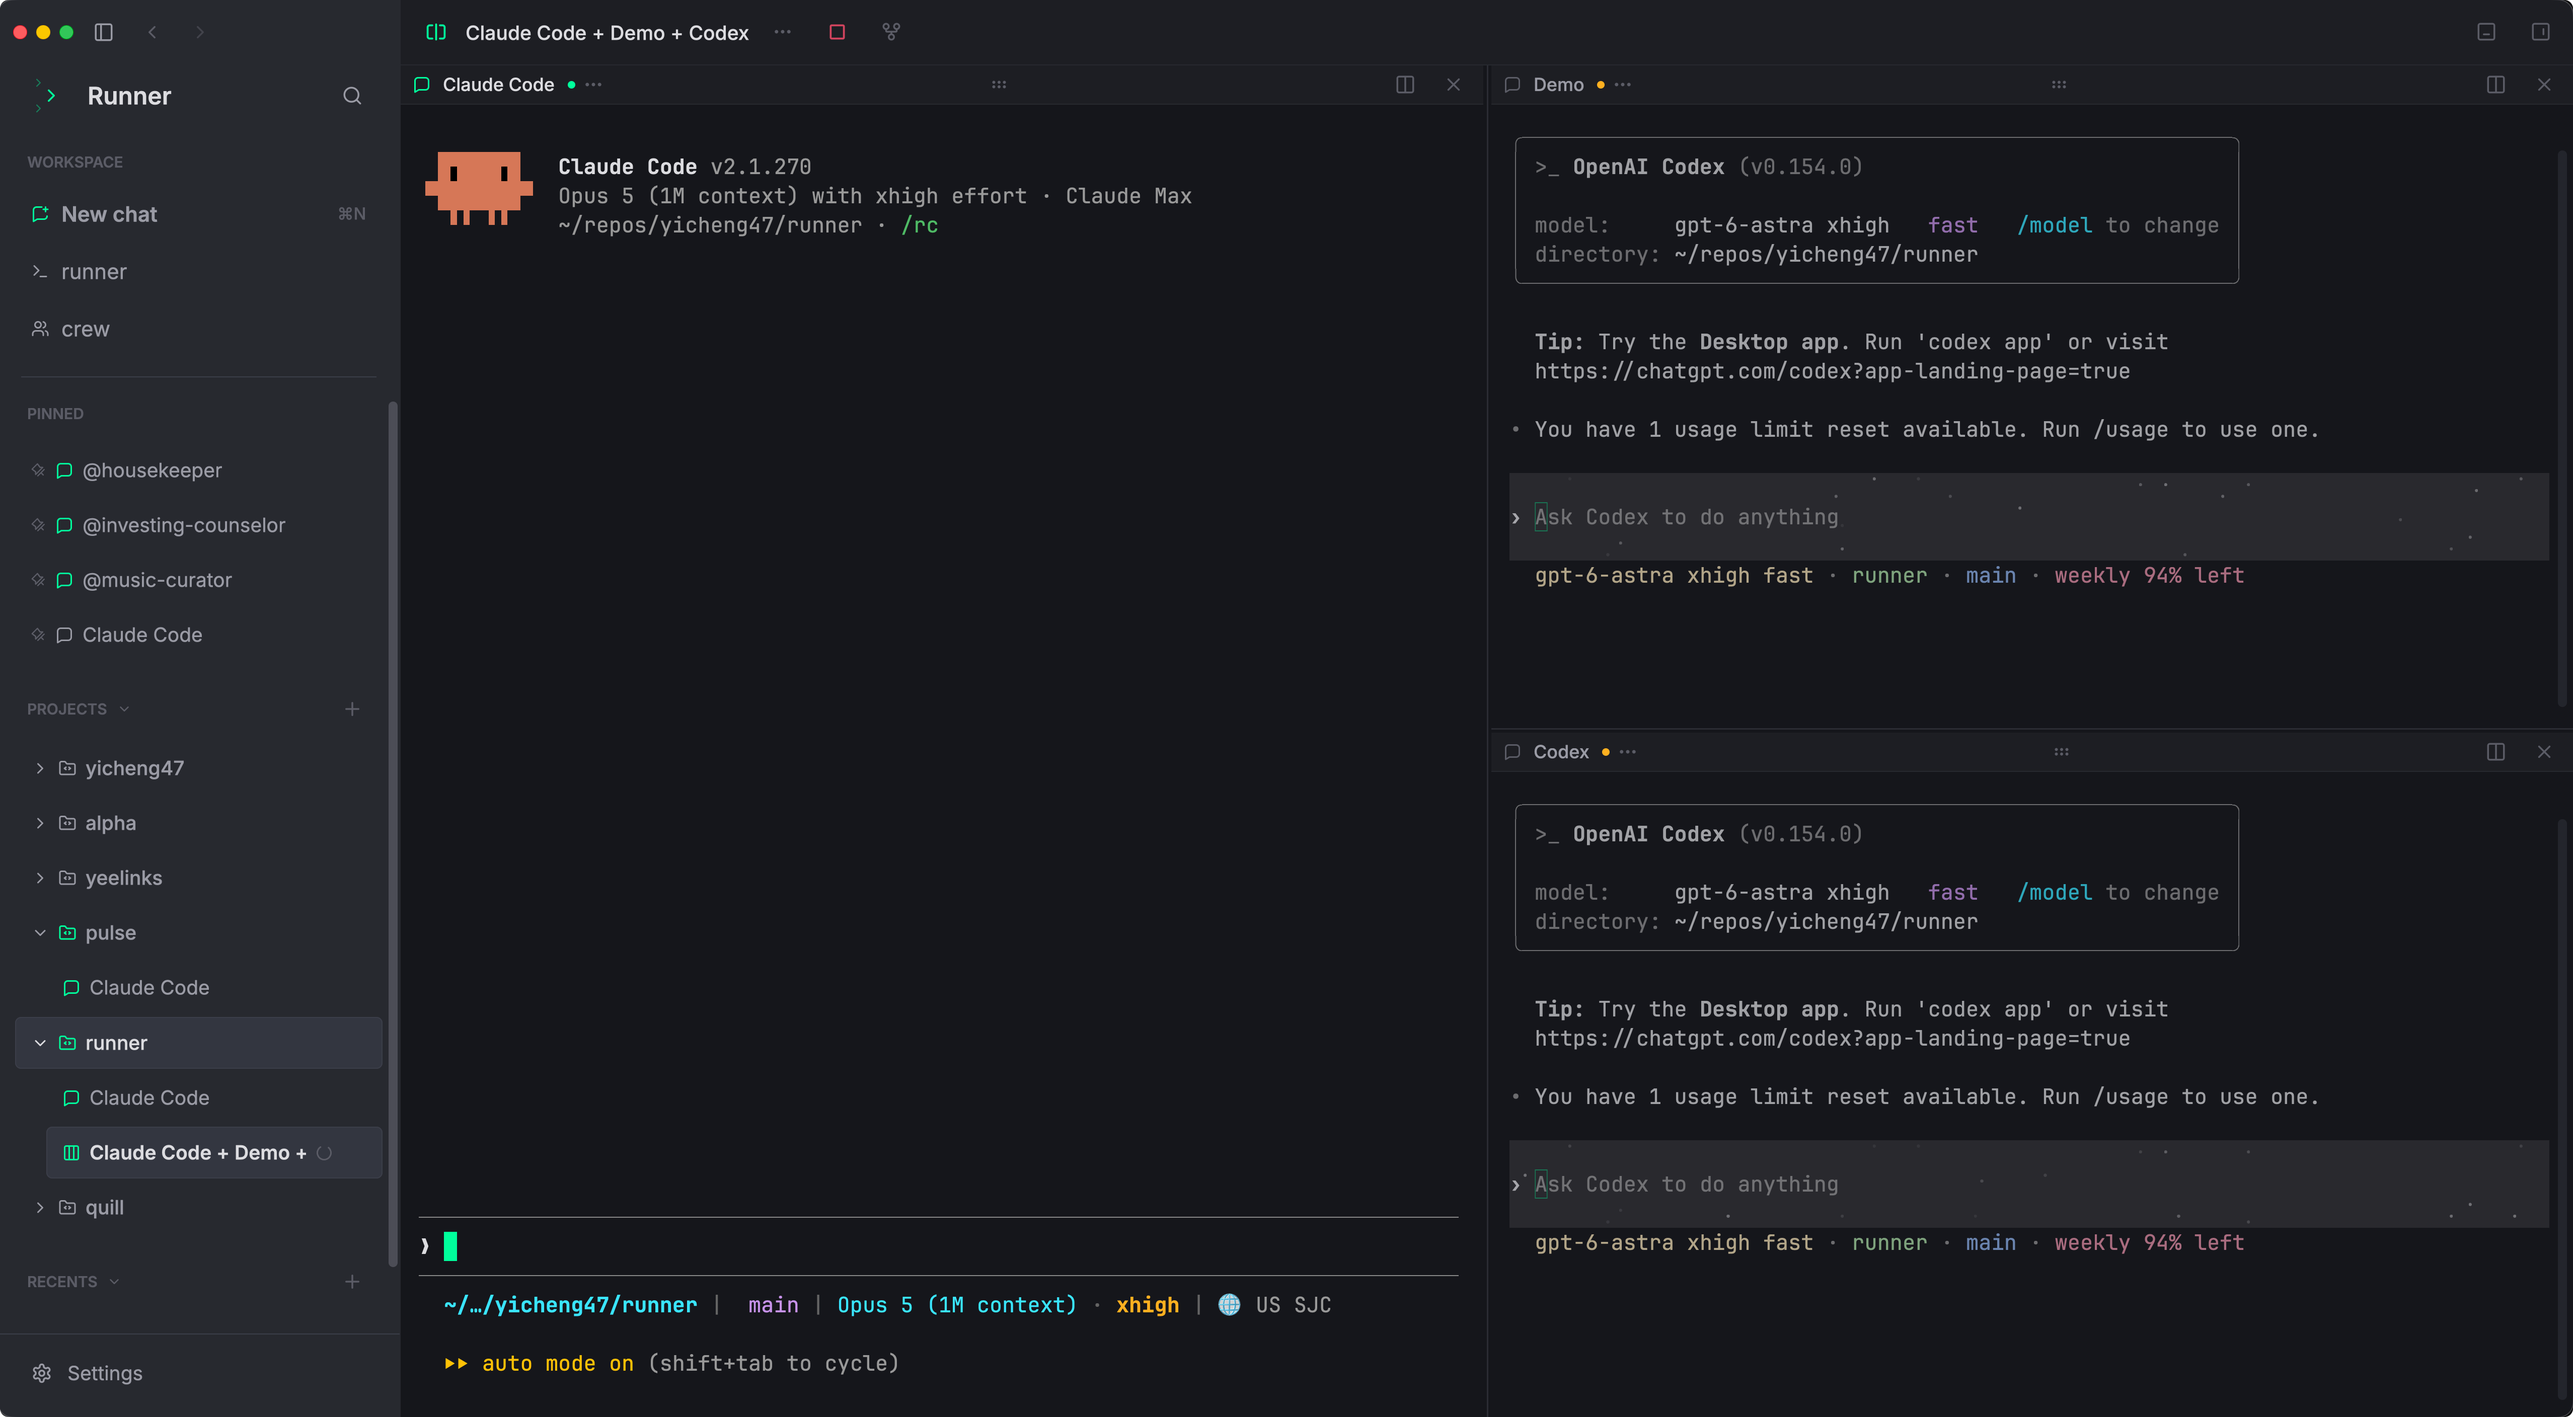
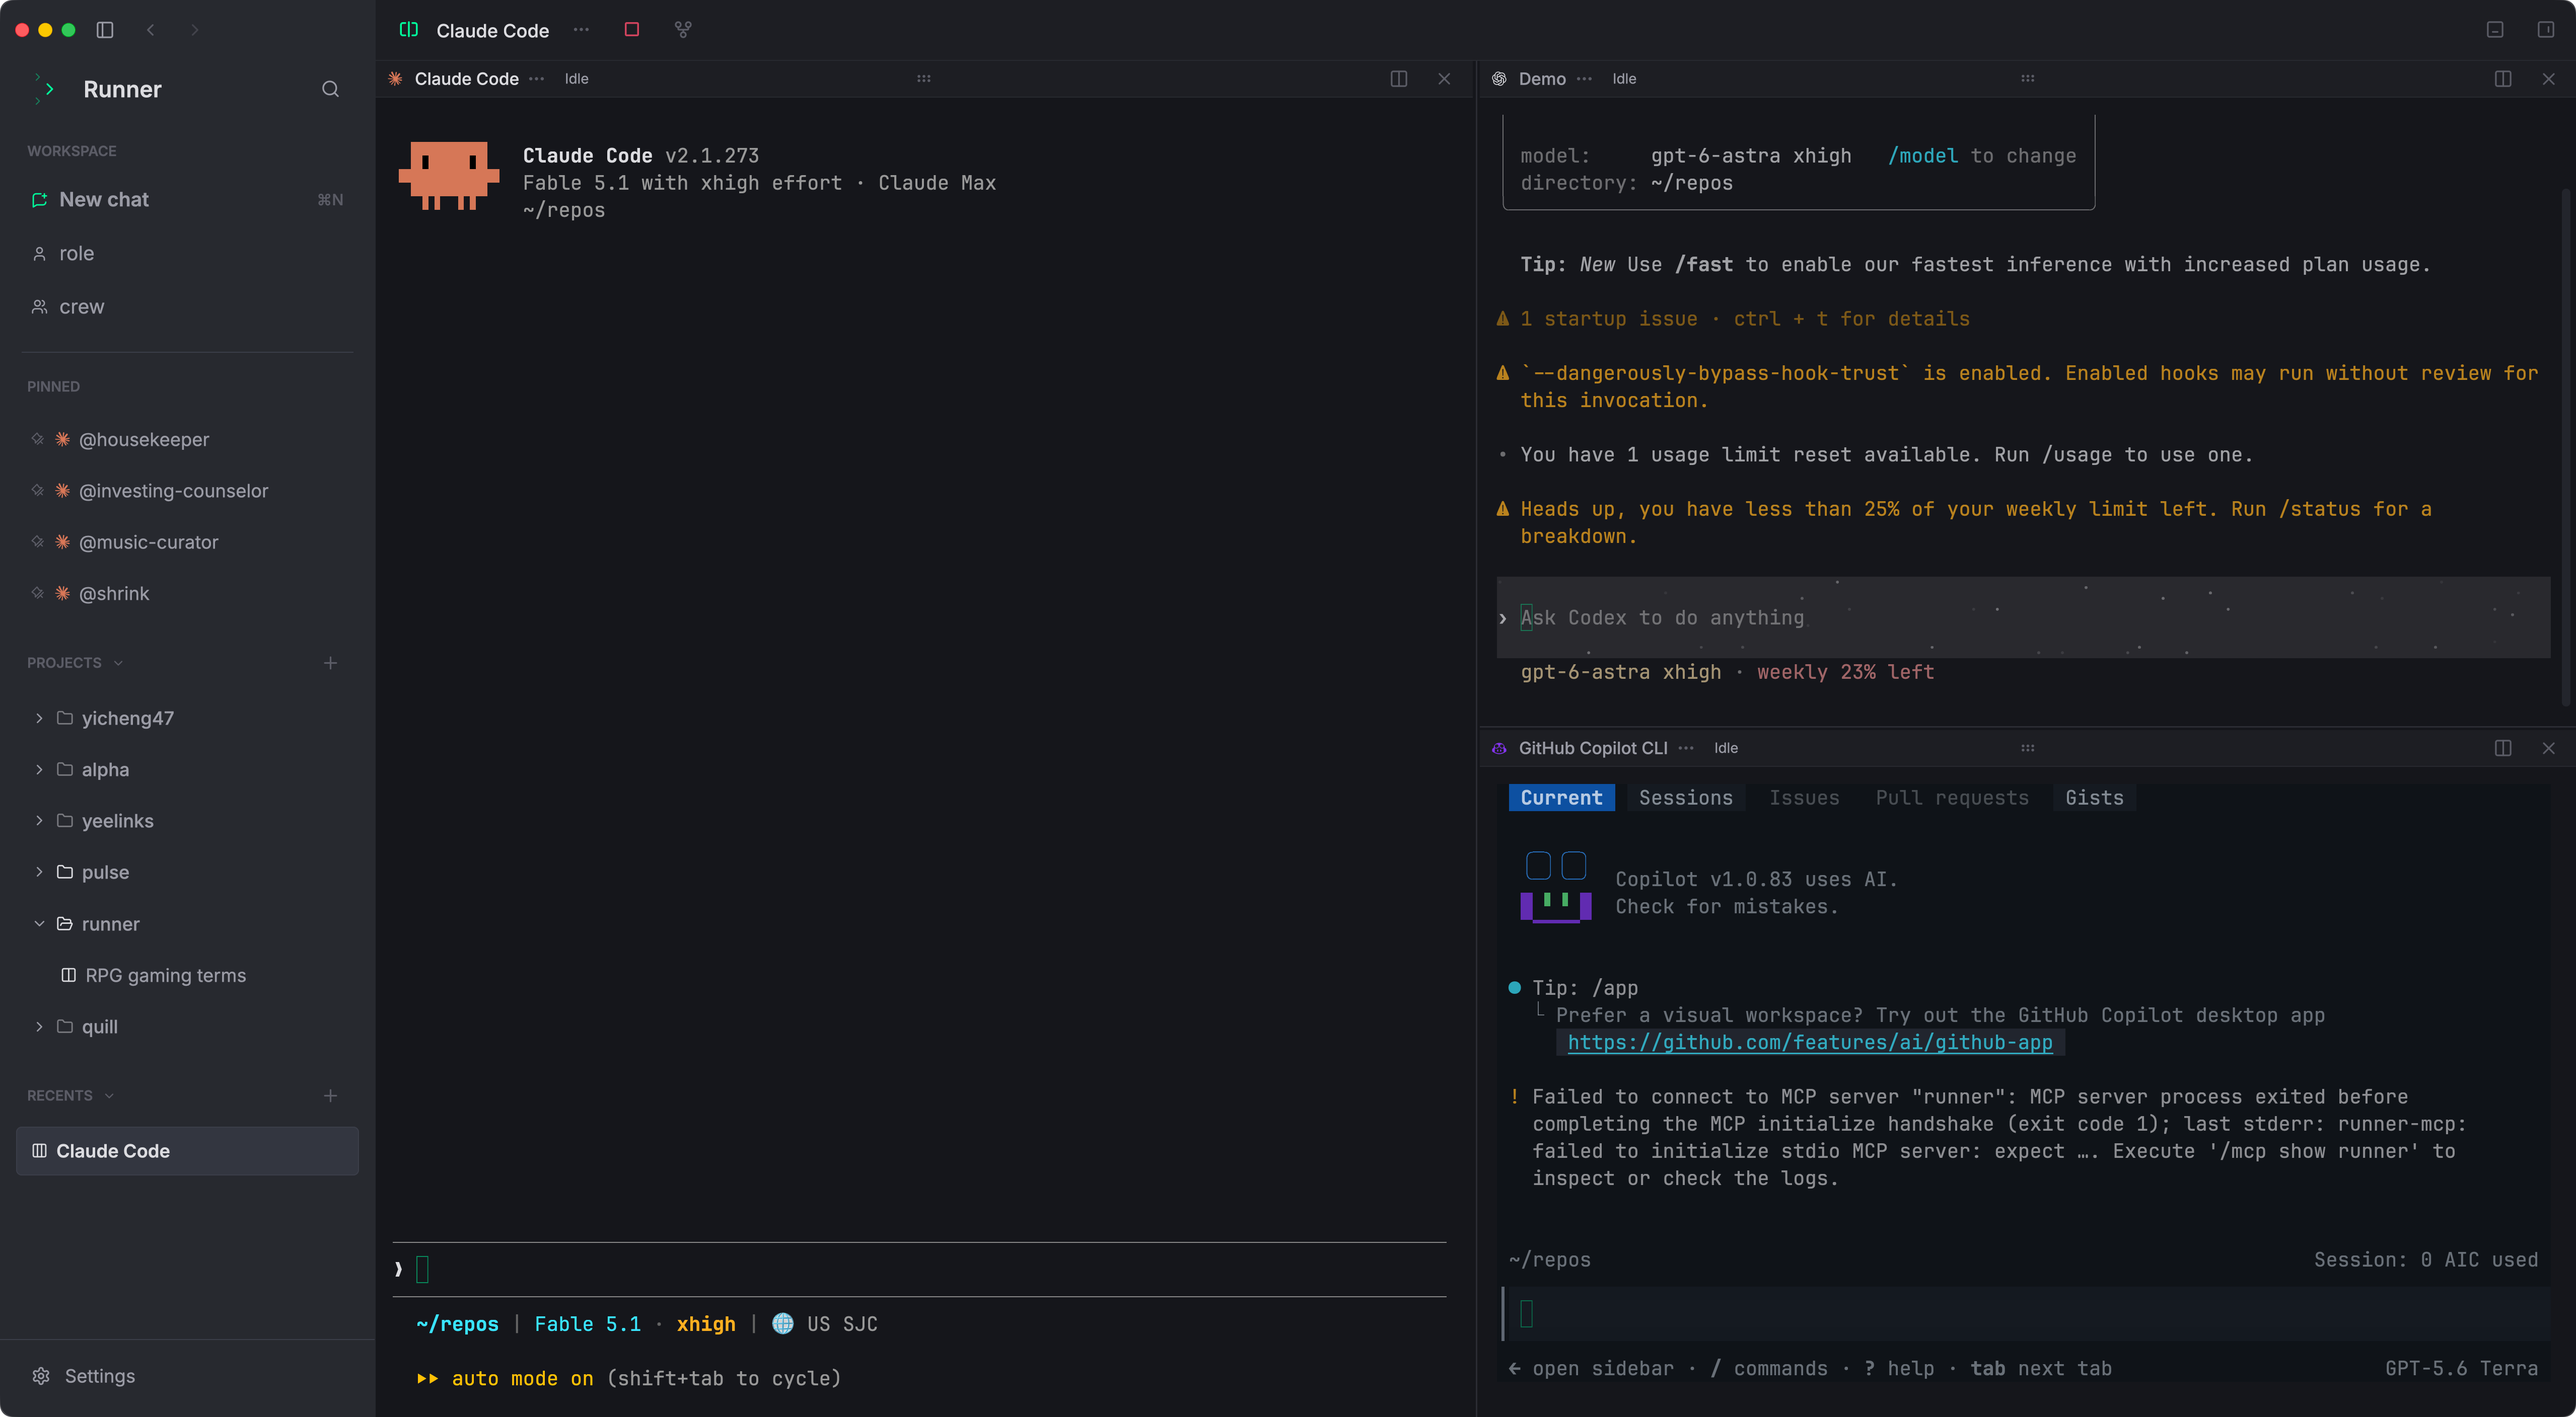
docs(readme): new hero and chat split screenshot with the role and crew sidebar
Claude Code, Codex and GitHub Copilot CLI in one tab, cropped
window-tight with rounded corners like the previous shot.

diff --git a/README.zh-CN.md b/README.zh-CN.md
@@ -28,7 +28,7 @@
 </p>
 
 <p align="center">
-  <img src="assets/hero.png" alt="Runner — 一个标签页里并排着一个 Claude Code 和两个 Codex 会话，侧边栏是项目和对话" width="100%" />
+  <img src="assets/hero.png" alt="Runner — 一个标签页里并排着 Claude Code、Codex 和 GitHub Copilot CLI，侧边栏是角色、crew、项目和对话" width="100%" />
 </p>
 
 <p align="center">

diff --git a/README.md b/README.md
@@ -28,7 +28,7 @@
 </p>
 
 <p align="center">
-  <img src="assets/hero.png" alt="Runner — one tab with a Claude Code and two Codex sessions side by side, projects and chats in the sidebar" width="100%" />
+  <img src="assets/hero.png" alt="Runner — one tab with Claude Code, Codex and GitHub Copilot CLI side by side, roles, crews, projects and chats in the sidebar" width="100%" />
 </p>
 
 <p align="center">
